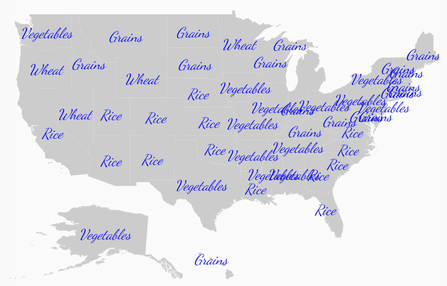
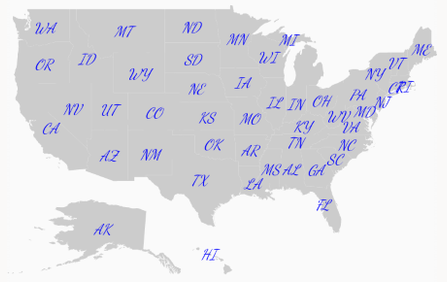
Modified the image

diff --git a/xamarin-android/SfMaps/DataLabels.md b/xamarin-android/SfMaps/DataLabels.md
@@ -35,7 +35,7 @@ Data labels are used to display the values of shapes.
 
             layer.ShapeIdTableField = "STATE_NAME";
 
-            layer.ShapeSettings.ShapeValuePath = "Type";
+            layer.ShapeSettings.ShapeValuePath = "ShortName";
 
             maps.Layers.Add(layer);
 
@@ -51,67 +51,64 @@ You can use below collection as a datasource of SfMaps.
 
 {% highlight c# %}
 
-        JSONArray GetDataSource()
+                JSONArray GetDataSource()
         {
             JSONArray array = new JSONArray();
 
-            array.Put(getJsonObject("Alabama", "Vegetables", 49));
-            array.Put(getJsonObject("Alaska", "Vegetables", 43));
-            array.Put(getJsonObject("Arizona", "Rice", 31));
-            array.Put(getJsonObject("Arkansas", "Vegetables", 36));
-            array.Put(getJsonObject("California", "Rice", 50));
-            array.Put(getJsonObject("Colorado", "Rice", 49));
-            array.Put(getJsonObject("Connecticut", "Grains", 7));
-            array.Put(getJsonObject("Delaware", "Grains", 3));
-            array.Put(getJsonObject("Florida", "Rice", 29));
-            array.Put(getJsonObject("Georgia", "Rice", 36));
-            array.Put(getJsonObject("Hawaii", "Grains", 4));
-            array.Put(getJsonObject("Idaho", "Grains", 4));
-            array.Put(getJsonObject("Illinois", "Vegetables", 20));
-            array.Put(getJsonObject("Indiana", "Grains", 11));
-            array.Put(getJsonObject("Iowa", "Vegetables", 6));
-            array.Put(getJsonObject("Kansas", "Rice", 6));
-            array.Put(getJsonObject("Kentucky", "Grains", 8));
-            array.Put(getJsonObject("Louisiana", "Rice", 48));
-            array.Put(getJsonObject("Maine", "Grains", 4));
-            array.Put(getJsonObject("Maryland", "Grains", 10));
-            array.Put(getJsonObject("Massachusetts", "Grains", 11));
-            array.Put(getJsonObject("Michigan", "Grains", 16));
-            array.Put(getJsonObject("Minnesota", "Wheat", 10));
-            array.Put(getJsonObject("Mississippi", "Vegetables", 36));
-            array.Put(getJsonObject("Missouri", "Vegetables", 30));
-            array.Put(getJsonObject("Montana", "Grains", 3));
-            array.Put(getJsonObject("Nebraska", "Rice", 5));
-            array.Put(getJsonObject("Nevada", "Wheat", 6));
-            array.Put(getJsonObject("New Hampshire", "Grains", 34));
-            array.Put(getJsonObject("New Jersey", "Vegetables", 14));
-            array.Put(getJsonObject("New Mexico", "Rice", 35));
-            array.Put(getJsonObject("New York", "Vegetables", 24));
-            array.Put(getJsonObject("North Carolina", "Rice", 45));
-            array.Put(getJsonObject("North Dakota", "Grains", 3));
-            array.Put(getJsonObject("Ohio", "Vegetables", 18));
-            array.Put(getJsonObject("Oklahoma", "Rice", 47));
-            array.Put(getJsonObject("Oregon", "Wheat", 7));
-            array.Put(getJsonObject("Pennsylvania", "Vegetables", 20));
-            array.Put(getJsonObject("Rhode Island", "Grains", 4));
-            array.Put(getJsonObject("South Carolina", "Rice", 49));
-            array.Put(getJsonObject("South Dakota", "Grains", 3));
-            array.Put(getJsonObject("Tennessee", "Vegetables", 41));
-            array.Put(getJsonObject("Texas", "Vegetables", 38));
-            array.Put(getJsonObject("Utah", "Rice", 6));
-            array.Put(getJsonObject("Vermont", "Grains", 3));
-            array.Put(getJsonObject("Virginia", "Rice", 13));
-            array.Put(getJsonObject("Washington", "Vegetables", 12));
-            array.Put(getJsonObject("West Virginia", "Grains", 5));
-            array.Put(getJsonObject("Wisconsin", "Grains", 10));
-            array.Put(getJsonObject("Wyoming", "Wheat", 3));
+            array.Put(getJsonObject("Alabama", "AL",49));
+            array.Put(getJsonObject("Alaska", "AK",43));
+            array.Put(getJsonObject("Arizona", "AZ",31));
+            array.Put(getJsonObject("Arkansas", "AR",36));
+            array.Put(getJsonObject("California", "CA",50));
+            array.Put(getJsonObject("Colorado", "CO",9));
+            array.Put(getJsonObject("Connecticut", "CT",3));
+            array.Put(getJsonObject("Florida", "FL",29));
+            array.Put(getJsonObject("Georgia", "GA",36));
+            array.Put(getJsonObject("Hawaii", "HI",4));
+            array.Put(getJsonObject("Idaho", "ID",4));
+            array.Put(getJsonObject("Illinois", "IL",20));
+            array.Put(getJsonObject("Indiana", "IN",11));
+            array.Put(getJsonObject("Iowa", "IA",6));
+            array.Put(getJsonObject("Kansas", "KS",6));
+            array.Put(getJsonObject("Kentucky", "KY",38));
+            array.Put(getJsonObject("Louisiana", "LA",48));
+            array.Put(getJsonObject("Maine", "ME",34));
+            array.Put(getJsonObject("Maryland", "MD",10));
+            array.Put(getJsonObject("Michigan", "MI",16));
+            array.Put(getJsonObject("Minnesota", "MN",10));
+            array.Put(getJsonObject("Mississippi", "MS",36));
+            array.Put(getJsonObject("Missouri", "MO",3));
+            array.Put(getJsonObject("Montana", "MT",3));
+            array.Put(getJsonObject("Nebraska", "NE",5));
+            array.Put(getJsonObject("Nevada", "NV",6));
+            array.Put(getJsonObject("New Jersey", "NJ",34));
+            array.Put(getJsonObject("New Mexico", "NM",35));
+            array.Put(getJsonObject("New York", "NY",29));
+            array.Put(getJsonObject("North Carolina", "NC",35));
+            array.Put(getJsonObject("North Dakota", "ND",3));
+            array.Put(getJsonObject("Ohio", "OH",18));
+            array.Put(getJsonObject("Oklahoma", "OK",47));
+            array.Put(getJsonObject("Oregon", "OR",7));
+            array.Put(getJsonObject("Pennsylvania", "PA",40));
+            array.Put(getJsonObject("Rhode Island", "RI",4));
+            array.Put(getJsonObject("South Carolina", "SC",39));
+            array.Put(getJsonObject("South Dakota", "SD",3));
+            array.Put(getJsonObject("Tennessee", "TN",41));
+            array.Put(getJsonObject("Texas", "TX",38));
+            array.Put(getJsonObject("Utah", "UT",6));
+            array.Put(getJsonObject("Vermont", "VT",3));
+            array.Put(getJsonObject("Virginia", "VA",43));
+            array.Put(getJsonObject("Washington", "WA",12));
+            array.Put(getJsonObject("West Virginia", "WV",35));
+            array.Put(getJsonObject("Wisconsin", "WI",10));
+            array.Put(getJsonObject("Wyoming", "WY",3));
             return array;
         }
-        JSONObject getJsonObject(String name, String type, double count)
+        JSONObject getJsonObject(String name, String shortname, double count)
         {
             JSONObject obj = new JSONObject();
             obj.Put("Name", name);
-            obj.Put("Type", type);
+            obj.Put("ShortName", shortname);
             obj.Put("Count", count);
             return obj;
         }
@@ -143,7 +140,7 @@ Based on the background color of the shapes, contrast color will be applied to d
 
             layer.ShapeIdTableField = "STATE_NAME";
 
-            layer.ShapeSettings.ShapeValuePath = "Type";
+            layer.ShapeSettings.ShapeValuePath = "ShortName";
 
             layer.ShapeSettings.ShapeColorValuePath = "Count";
 
@@ -207,7 +204,7 @@ Data labels can be customized using the [`DataLabelSetting`](https://help.syncfu
 
             layer.ShapeIdTableField = "STATE_NAME";
 
-            layer.ShapeSettings.ShapeValuePath = "Type";
+            layer.ShapeSettings.ShapeValuePath = "ShortName";
 
             DataLabelSetting dataLabelSetting = new DataLabelSetting();
 
